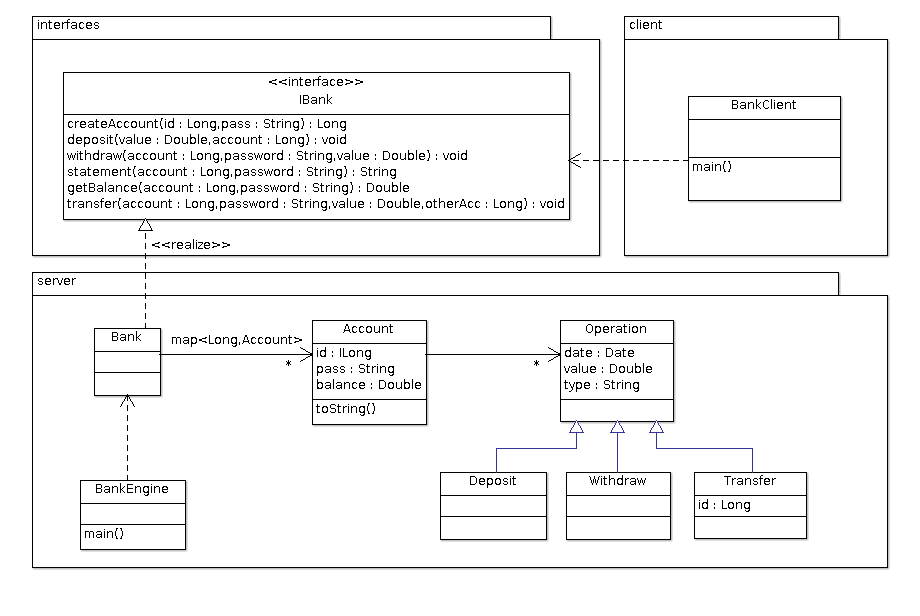
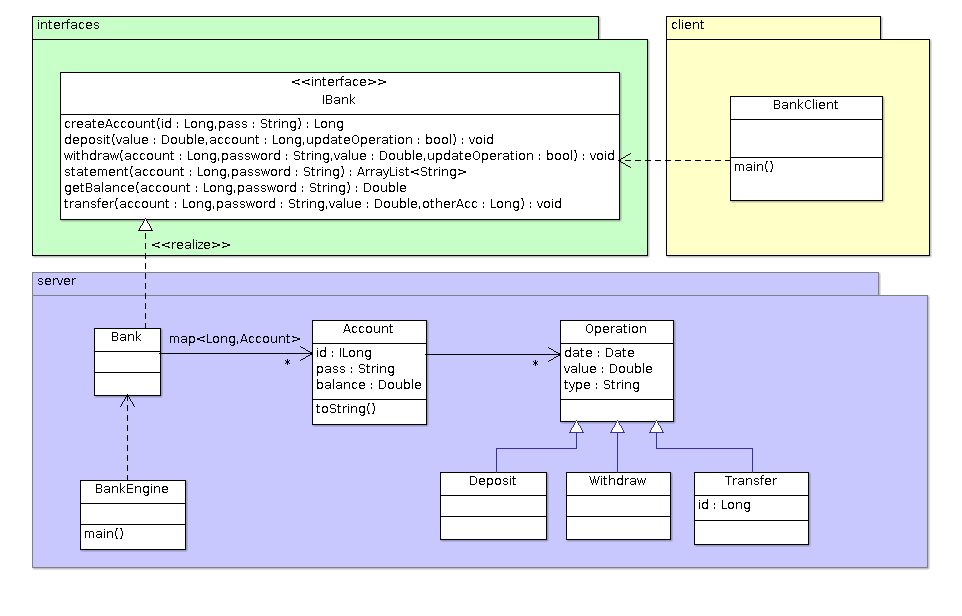
Fix comments and diagrams

diff --git a/BankRMI/src/interfaces/IBank.java b/BankRMI/src/interfaces/IBank.java
@@ -21,6 +21,7 @@ public interface IBank extends Remote {
      * @param id
      * @param password
      * @return the account id
+     * @throws exceptions.AccountAlreadyExistsException
      * @throws RemoteException 
      */
     public Long createAccount(Long id, String password) throws AccountAlreadyExistsException, RemoteException;
@@ -30,7 +31,9 @@ public interface IBank extends Remote {
      * 
      * @param value
      * @param account
+     * @param updateOperation
      * @throws RemoteException 
+     * @throws exceptions.InvalidAccountException 
      */
     public void deposit(Double value, Long account, Boolean updateOperation) throws IllegalArgumentException, InvalidAccountException, RemoteException;
     
@@ -43,7 +46,11 @@ public interface IBank extends Remote {
      * @param account
      * @param password
      * @param value
+     * @param updateOperation
+     * @throws exceptions.InvalidAccountException
+     * @throws exceptions.AuthenticationException
      * @throws RemoteException 
+     * @throws exceptions.NotEnoughBalanceException 
      */
     public void withdraw(Long account, String password, Double value, Boolean updateOperation) throws InvalidAccountException, AuthenticationException, NotEnoughBalanceException, RemoteException;
     
@@ -55,6 +62,9 @@ public interface IBank extends Remote {
      * @param value
      * @param anotherAccount
      * @throws RemoteException 
+     * @throws exceptions.InvalidAccountException 
+     * @throws exceptions.AuthenticationException 
+     * @throws exceptions.NotEnoughBalanceException 
      */
     public void transfer(Long account, String password, Double value, Long anotherAccount) throws IllegalArgumentException, InvalidAccountException, AuthenticationException, NotEnoughBalanceException, RemoteException;
     
@@ -64,6 +74,8 @@ public interface IBank extends Remote {
      * @param account
      * @param password
      * @return the account statement
+     * @throws exceptions.InvalidAccountException
+     * @throws exceptions.AuthenticationException
      * @throws RemoteException 
      */
     public List<String> statement(Long account, String password) throws InvalidAccountException, AuthenticationException, RemoteException;
@@ -74,6 +86,8 @@ public interface IBank extends Remote {
      * @param account
      * @param password
      * @return the balance
+     * @throws exceptions.InvalidAccountException
+     * @throws exceptions.AuthenticationException
      * @throws java.rmi.RemoteException
      */
     public Double getBalance(Long account, String password) throws InvalidAccountException, AuthenticationException, RemoteException;
